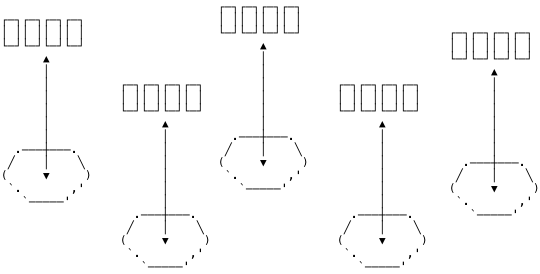
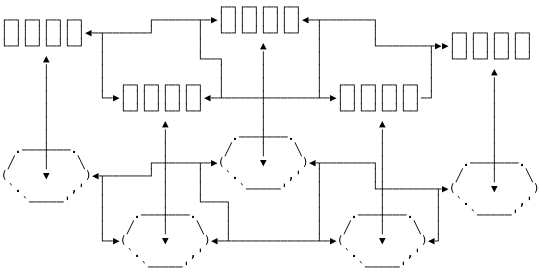
Clarify presentation.

Changed region(s): [[0.1778, 0.5839, 0.8296, 0.9051], [0.1481, 0.0584, 0.8296, 0.3796]]

diff --git a/presentation.md b/presentation.md
@@ -90,7 +90,35 @@ Two separate state trees
 
 ---
 
+# Simple privacy: Constellation
+
+^ it's a blockchain on a machine
+
+One node.
+
+![inline](photos/one-ethereum-node.png)
+
+---
+
+# Simple privacy: Constellation
+
+^ We add a private enclave
+
+^ constellation holds encrypted private data
+
+^ quorum can send or request private data
+
+With a private enclave.
+
+![inline](photos/one-quorum-node.png)
+
+---
+
 ^ Now add constellation nodes. Each of the constellation nodes is colocated with its quorum node and communicates peer-to-peer with other constellation nodes when necessary to share private, encrypted information.
+
+^ quorum nodes communicate in a network
+
+^ constellation nodes do too
 
 # Simple privacy: Constellation
 
@@ -99,6 +127,43 @@ Two separate state trees
 Peer-to-peer encrypted message exchange
 
 ![inline](photos/quorum-network.png)
+
+---
+
+^ mention we don't use ether
+
+# Simple privacy: Creating a private contract
+
+```javascript
+var simple = checkingAccountContract.new(42, {
+  from: web3.eth.accounts[0],
+  data: bytecode,
+  gas: 300000,
+});
+```
+
+---
+
+^ we probably include a regulator in all private txes
+
+# Simple privacy: Creating a private contract
+
+```javascript
+var simple = checkingAccountContract.new(42, {
+  from: web3.eth.accounts[0],
+  data: bytecode,
+  gas: 300000,
+
+  privateFor: ["ROAZBWtSacxXQrOe3FGAqJDyJjFePR5ce4TSIzmJ0Bc="]
+  //           <-               public key                 ->
+});
+```
+
+---
+
+# Simple privacy: Creating a private contract
+
+![inline](photos/give-private-data.png)
 
 ---
 
@@ -115,6 +180,22 @@ Peer-to-peer encrypted message exchange
 # Simple privacy: consensus with private state
 
 ![inline](photos/private1.png)
+
+---
+
+^ each quorum node asks for the private data
+
+# Simple privacy: consensus with private state
+
+![inline](photos/do-you-have-it.png)
+
+---
+
+# Simple privacy: consensus with private state
+
+Who has this payload?
+
+![inline](photos/who-has-data.png)
 
 ---
 
@@ -137,49 +218,6 @@ Peer-to-peer encrypted message exchange
 # Simple privacy: consensus with private state
 
 ![inline](photos/private4.png)
-
----
-
-# Simple privacy: more details
-
-## What's in a transaction?
-
-```go
-data, err = private.P.Send(args.Data, args.PrivateFrom, args.PrivateFor)
-if err != nil {
-	return common.Hash{}, err
-}
-args.Data = data
-```
-
----
-
-^ mention we don't use ether
-
-# Simple privacy: Creating a private contract
-
-```javascript
-var simple = checkingAccountContract.new(42, {
-  from: web3.eth.accounts[0],
-  data: bytecode,
-  gas: 300000,
-});
-```
-
----
-
-# Simple privacy: Creating a private contract
-
-```javascript
-var simple = checkingAccountContract.new(42, {
-  from: web3.eth.accounts[0],
-  data: bytecode,
-  gas: 300000,
-
-  privateFor: ["ROAZBWtSacxXQrOe3FGAqJDyJjFePR5ce4TSIzmJ0Bc="]
-  //           <-               public key                 ->
-});
-```
 
 ---
 
@@ -236,6 +274,19 @@ var simple = checkingAccountContract.new(42, {
 * everyone is ~~anonymous~~ known
 * mutual ~~lack of~~ trust
 * mining is not necessary
+
+---
+
+# Consensus: Raft
+
+What does a consensus mechanism do?
+
+| | |
+|---|---|
+| 1 | a = 1 |
+| 2 | b = 2 |
+| 3 | a = 100 |
+| 4 | c = 5 |
 
 ---
 
@@ -338,18 +389,16 @@ var simple = checkingAccountContract.new(42, {
 
 ---
 
-# Consensus: Istanbul BFT
-
-## _Demo_
-
----
-
 ^ bft + bigger networks + more efficient
 
 # Consensus: New work
 
 * The Honey Badger of BFT Protocols - Miller, Xia, Croman, Shi, Song
 * Thunderella: Blockchains with Optimistic Instant Confirmation - Pass, Shi
+
+---
+
+### `assert(presentationEnded);`
 
 ---
 
